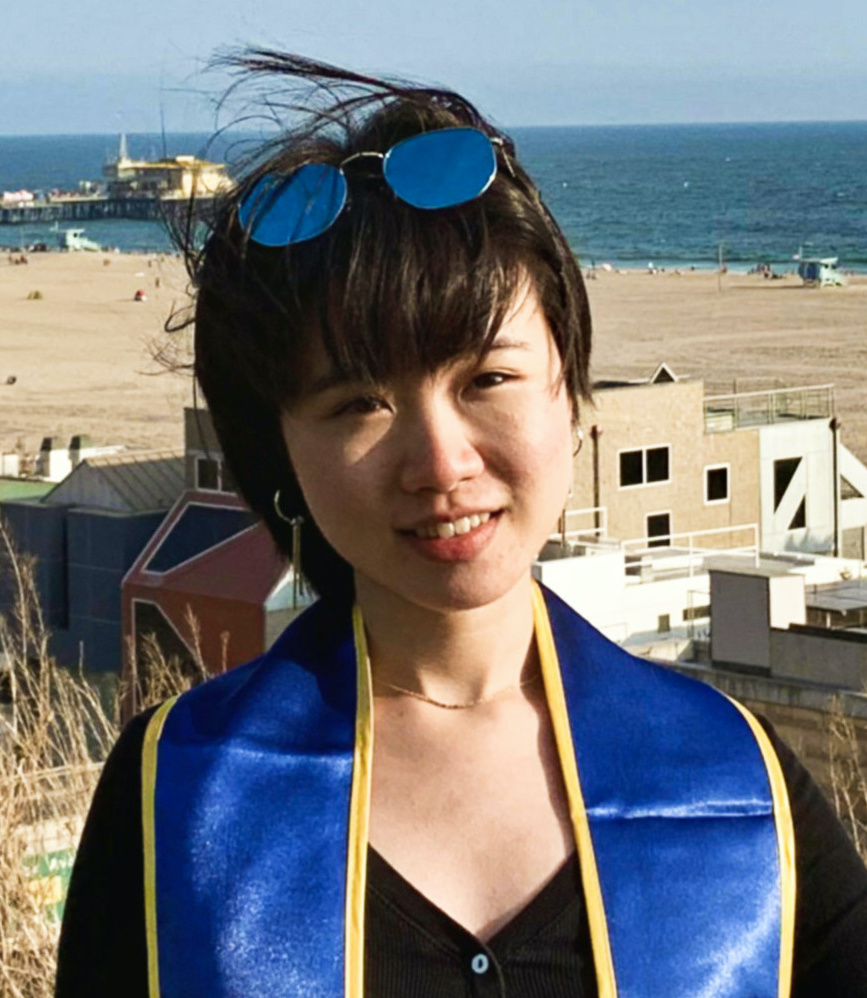
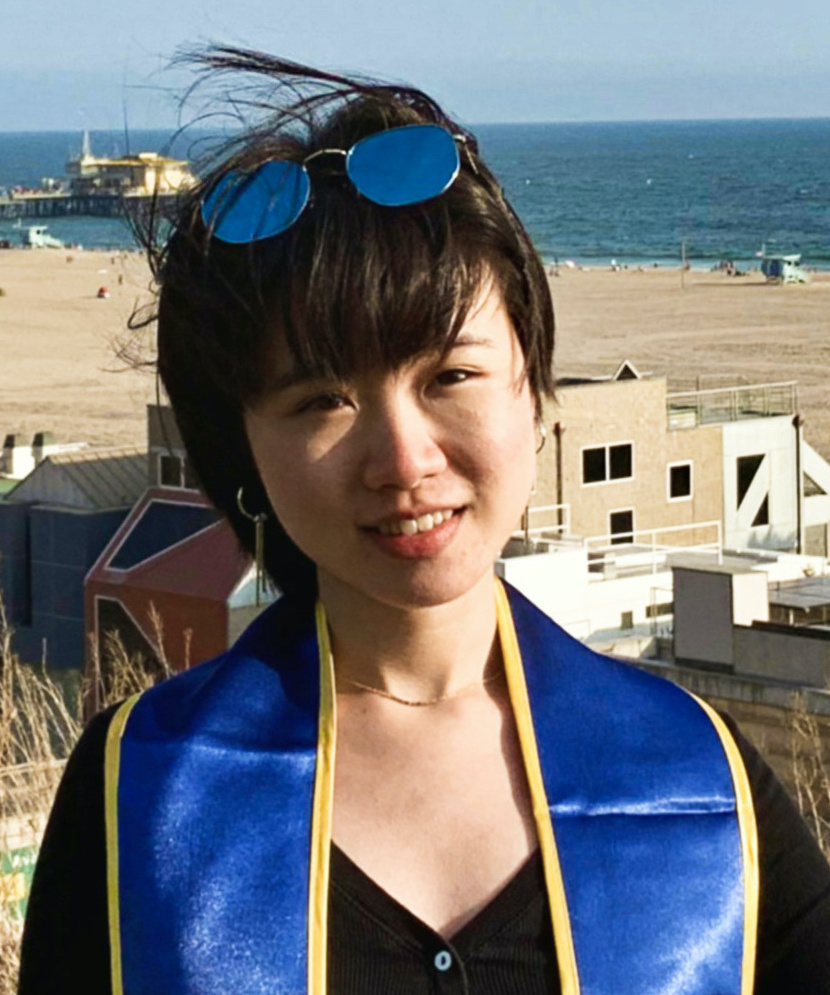
update

diff --git a/index.html b/index.html
@@ -81,7 +81,7 @@
 				</div>
                 <div class="row mt-0">
                     <div class="col-2 col-sm-2 col-md-2 col-lg-2 p-0 pl-0 pl-sm-4 offset-xl-1 col-xl-3" height='40%'>
-                    <img src="images/rachel.jpg" id="me" vspace="6" height="20%" itemprop="photo" class="float-left img-fluid">
+                    <img src="images/rachel.jpg" id="me" vspace="6" height="42" itemprop="photo" class="float-left img-fluid">
                     </div>
 
                     <div class="col-10 col-sm-10 col-md-10 col-lg-10 pl-3 pr-1 px-sm-4 pl-md-5 pt-1 pb-1 pb-sm-1 pt-sm-1 nameplate col-xl-7 offset-xl-0">
@@ -116,7 +116,7 @@
                         <a href="http://cs229.stanford.edu/" target="_blank"><img src="images/CS229.png" class="publogo img-fluid float-left rounded g" width="140" <="" a=""></a>
                         <div class="media-body">
                             <p><strong>CNN Image Recognition Architecture Simplification using Patch-Based Data Reduction Techniques</strong><br>
-                            CS229 project with Jiying Zou and Yuan Liu. [<em><a href="http://cs229.stanford.edu/" target="_blank">Report</a> / <a href="http://cs229.stanford.edu/" target="_blank" target="_blank">Poster</a> / <a href="https://github.com/rui-yan/CS229-final-project" target="_blank">Github</a> </em>]<br>
+                            CS229 project with Jiying Zou and Yuan Liu. [<em> <a href="http://cs229.stanford.edu/" target="_blank">Report</a> / <a href="http://cs229.stanford.edu/" target="_blank" target="_blank">Poster</a> / <a href="https://github.com/rui-yan/CS229-final-project" target="_blank">Github</a> </em>]<br>
                             </span>
                             </p>
                         </div>
@@ -126,7 +126,7 @@
                         <img src="images/growth_model.png" class="publogo img-fluid float-left rounded g" width="140" <="" a="">
                         <div class="media-body">
                             <p><strong>Stochastic models accounting for hidden cell-drug interactions</strong><br>
-                            Undergraduate Research under the supervision of <a href="https://samueli.ucla.edu/people/aaron-meyer/" target="_blank">Prof. Aaron Meyer</a>. [<em><a href="https://www.biorxiv.org/content/10.1101/863597v1.full.pdf" target="_blank">Paper</a> / <a href="https://github.com/meyer-lab/ps-growth-model" target="_blank">Github</a></em>]<br>
+                            Undergraduate Research under the supervision of <a href="https://samueli.ucla.edu/people/aaron-meyer/" target="_blank">Prof. Aaron Meyer</a>. [<em> <a href="https://www.biorxiv.org/content/10.1101/863597v1.full.pdf" target="_blank">Paper</a> / <a href="https://github.com/meyer-lab/ps-growth-model" target="_blank">Github</a> </em>]<br>
                             </span>
                             </p>
                         </div>
